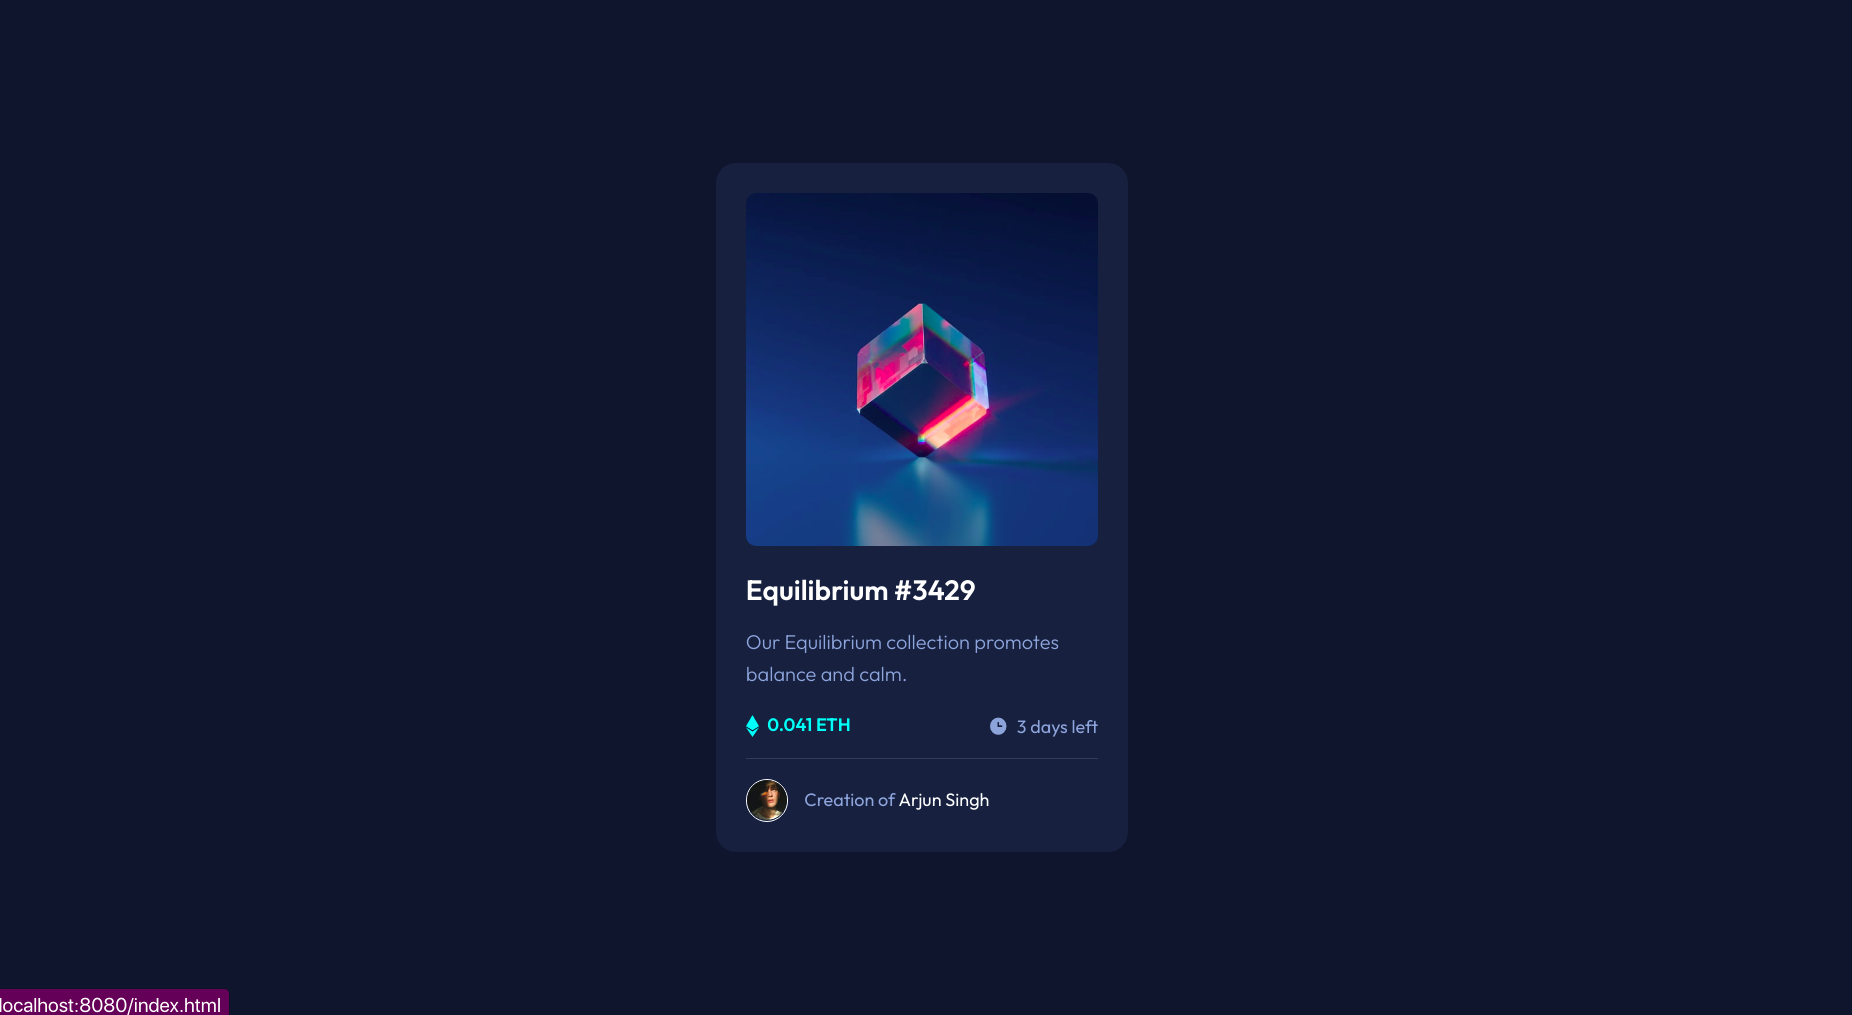
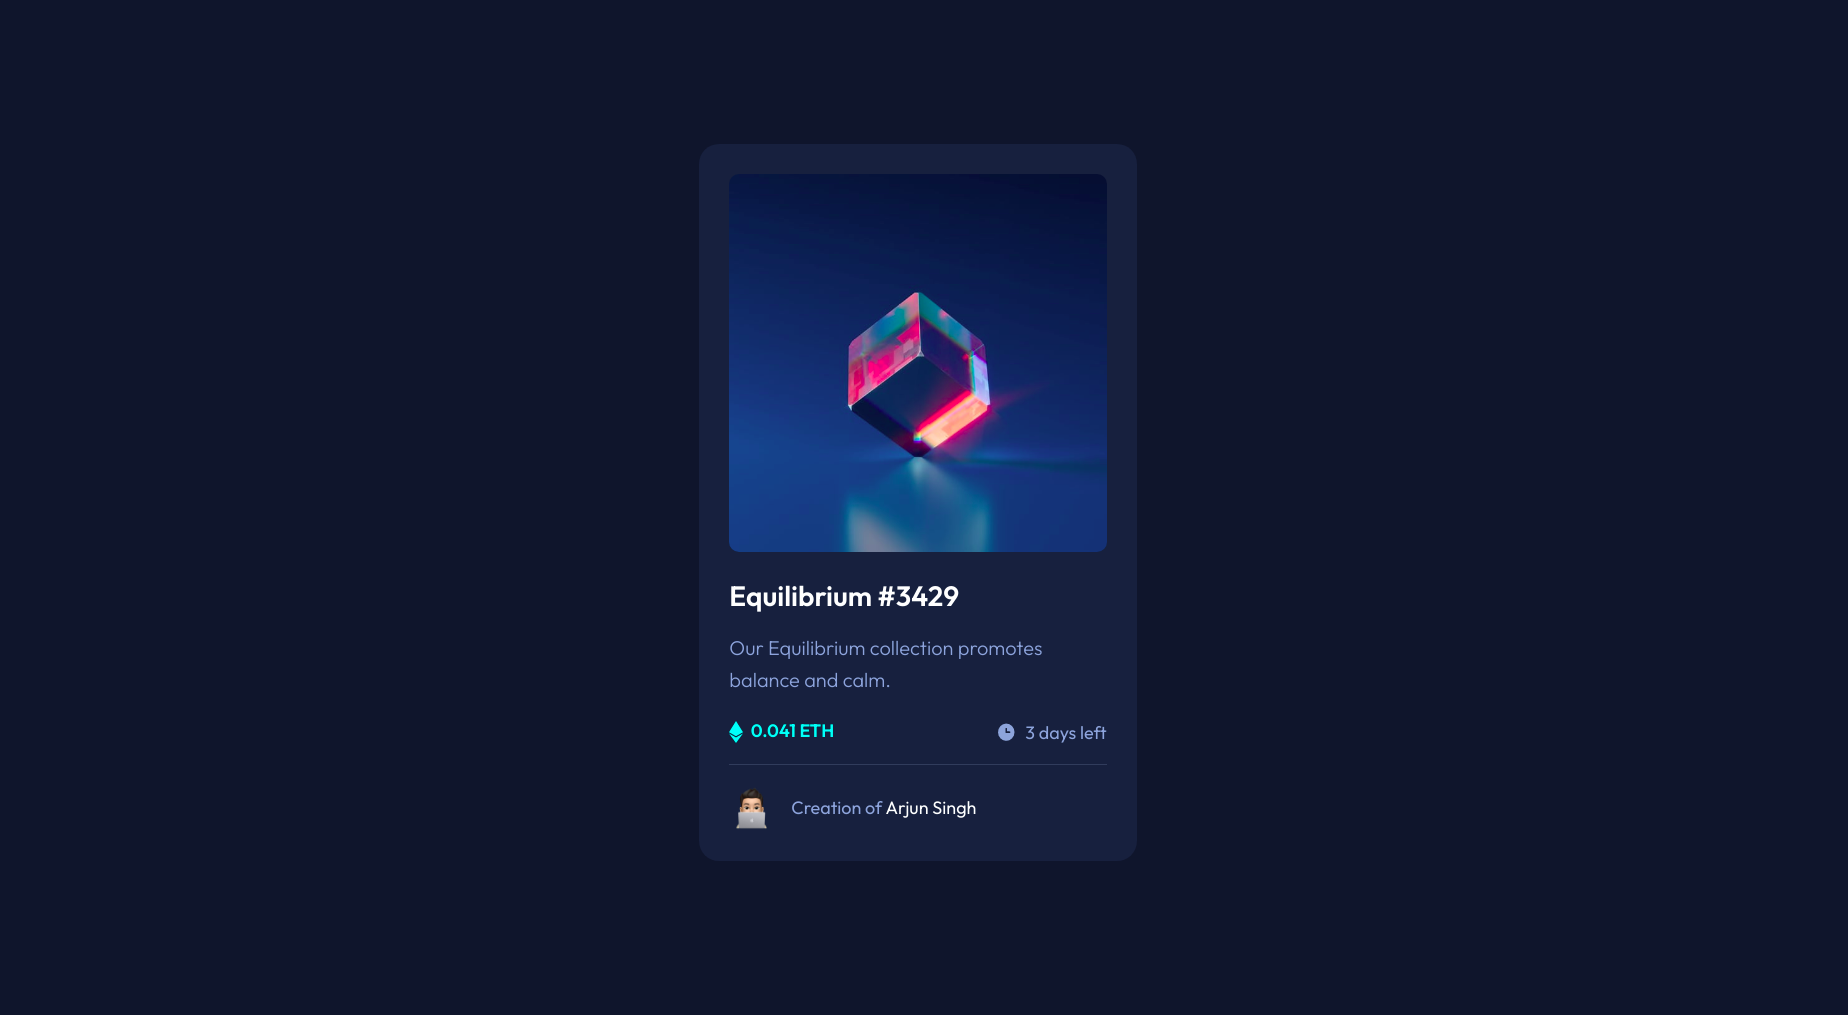
Links and readme updated. project Finished

diff --git a/style.css b/style.css
@@ -42,7 +42,7 @@ p {
 }
 
 .container {
-  max-width: 330px;
+  max-width: 350px;
   margin: auto;
 }
 
@@ -104,9 +104,7 @@ hr {
 
 .creator img {
   margin-right: 0.8rem;
-  max-height: 2rem;
-  border: 1px solid white;
-  border-radius: 50%;
+  max-height: 2.3rem;
 }
 .creator p {
   margin: auto 0;

diff --git a/README.md b/README.md
@@ -1,16 +1,20 @@
 # Frontend Mentor - NFT preview card component solution
 
-This is a solution to the [FT preview card component challenge on Frontend Mentor](https://www.frontendmentor.io/challenges/nft-preview-card-component-SbdUL_w0U). Frontend Mentor challenges help you improve your coding skills by building realistic projects.
+This is a solution to the [NFT preview card component challenge on Frontend Mentor](https://www.frontendmentor.io/challenges/nft-preview-card-component-SbdUL_w0U). Frontend Mentor challenges help you improve your coding skills by building realistic projects.
 
 ## Table of contents
 
+- [Author](#author)
 - [Overview](#overview)
   - [Screenshot](#screenshot)
   - [Links](#links)
 - [My process](#my-process)
   - [Built with](#built-with)
   - [What I learned](#what-i-learned)
-- [Author](#author)
+
+## Author
+
+- Linktree - [Arjun Singh](https://linktr.ee/arjuncool2)
 
 ## Overview
 
@@ -20,8 +24,8 @@ This is a solution to the [FT preview card component challenge on Frontend Mento
 
 ### Links
 
-- Solution URL: [Solution](https://www.frontendmentor.io/solutions/html-css-qud1dtU28)
-- Live Site URL: [Live site](https://rjn-bot.github.io/QR-Code-Challenge/)
+- Solution URL: [Solution](https://www.frontendmentor.io/solutions/did-it1-t0gtoMnal)
+- Live Site URL: [Live site](https://rjn-bot.github.io/NFT-Challenge/)
 
 ## My process
 
@@ -35,7 +39,3 @@ This is a solution to the [FT preview card component challenge on Frontend Mento
 ### What I learned
 
 This was my second unguided project and it was very fun :)
-
-## Author
-
-- Linktree - [Arjun Singh](https://linktr.ee/arjuncool2)
